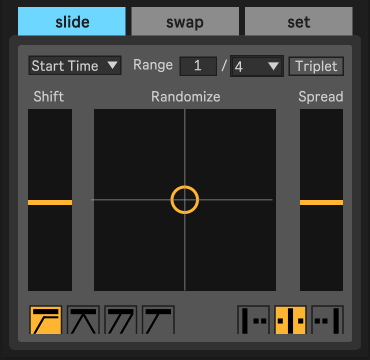
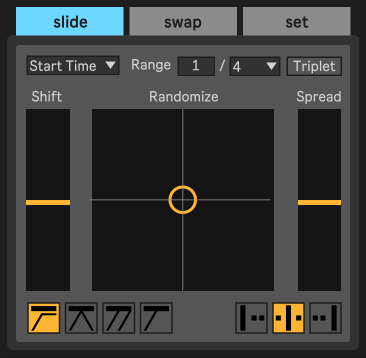
Fixing clipping of slide tool buttons

diff --git a/etc/DEVELOPERS.md b/etc/DEVELOPERS.md
@@ -18,6 +18,10 @@ Development Process
 Pre-commit
 1. `npm run test` - All tests must pass.
 
+Updating Screenshots
+1. Use zoom level 150%
+2. Crop out the window toolbar
+
 Releasing
 1. Edit the device
 2. Freeze the device
